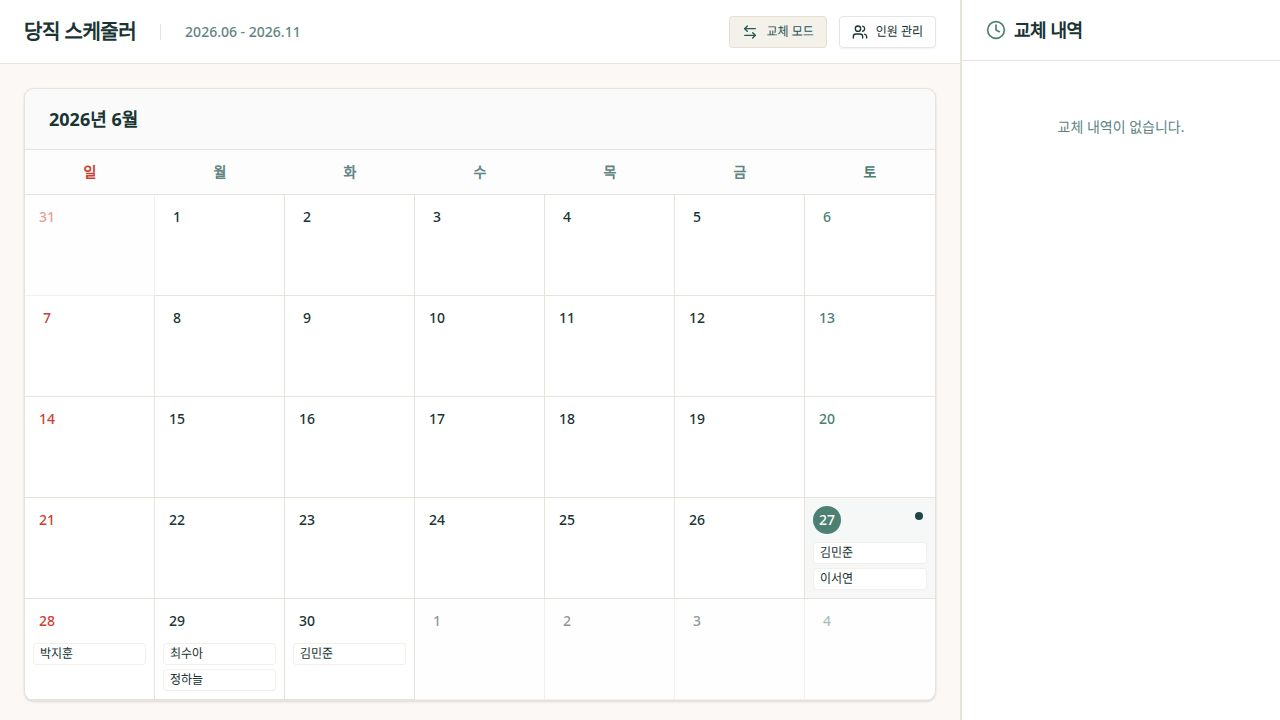
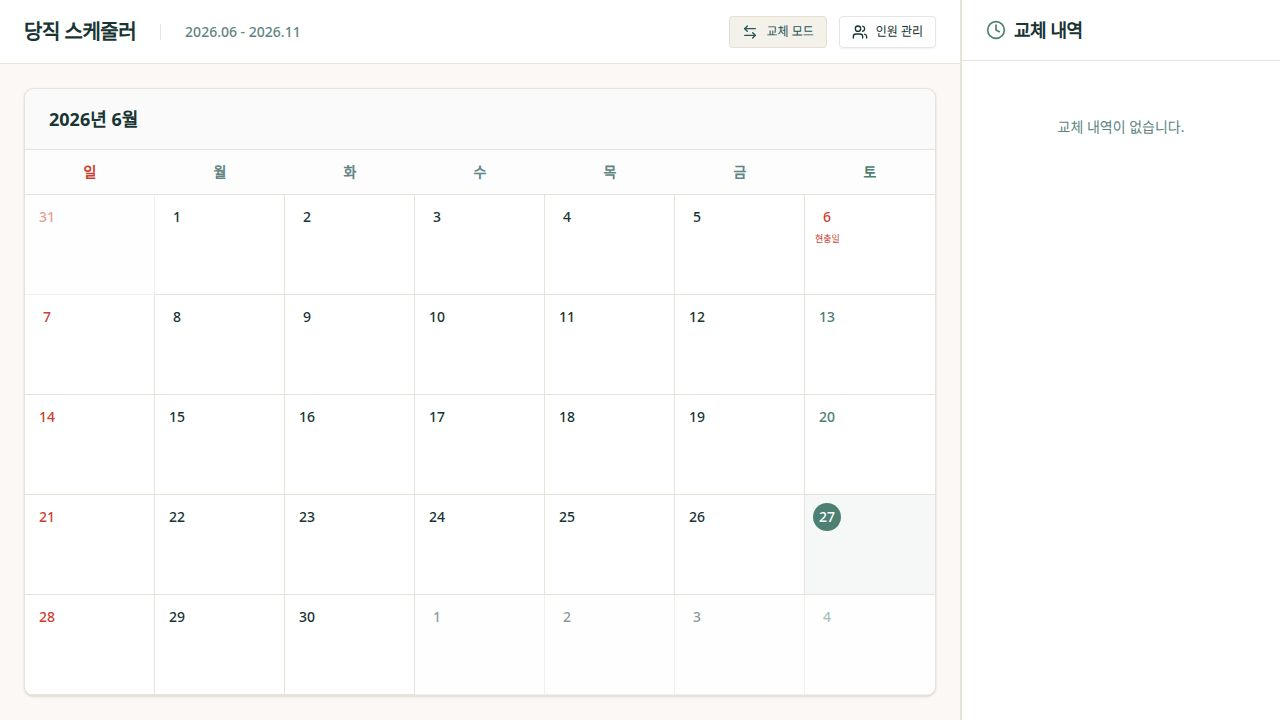
Add Korean public holiday highlighting to the calendar view
Implement a new utility for Korean holidays and integrate it into the calendar component to visually distinguish public holidays.

Replit-Commit-Author: Agent
Replit-Commit-Session-Id: 0424fa4a-f6b5-4077-a06b-6a16d13544e7
Replit-Commit-Checkpoint-Type: full_checkpoint
Replit-Commit-Event-Id: 74a1367c-1a98-4e17-9df1-6d5520efb0f4
Replit-Commit-Screenshot-Url: https://storage.googleapis.com/screenshot-production-us-central1/cf87bd14-f0a1-48b1-907c-88d88dbf4785/0424fa4a-f6b5-4077-a06b-6a16d13544e7/M0kC9wW
Replit-Helium-Checkpoint-Created: true

diff --git a/artifacts/duty-scheduler/src/lib/korean-holidays.ts b/artifacts/duty-scheduler/src/lib/korean-holidays.ts
@@ -1,0 +1,87 @@
+// 대한민국 법정 공휴일 (2025-2028)
+// Lunar-based holidays are pre-calculated per year
+
+const HOLIDAYS: Record<string, string> = {
+  // 2025
+  "2025-01-01": "신정",
+  "2025-01-28": "설날 연휴",
+  "2025-01-29": "설날",
+  "2025-01-30": "설날 연휴",
+  "2025-03-01": "삼일절",
+  "2025-05-05": "어린이날",
+  "2025-05-06": "대체공휴일(어린이날)",
+  "2025-05-05": "부처님오신날",  // Lunar Apr 8 - Buddha's Birthday
+  "2025-06-06": "현충일",
+  "2025-08-15": "광복절",
+  "2025-10-05": "추석 연휴",
+  "2025-10-06": "추석",
+  "2025-10-07": "추석 연휴",
+  "2025-10-03": "개천절",
+  "2025-10-09": "한글날",
+  "2025-12-25": "성탄절",
+
+  // 2026
+  "2026-01-01": "신정",
+  "2026-02-16": "설날 연휴",
+  "2026-02-17": "설날",
+  "2026-02-18": "설날 연휴",
+  "2026-03-01": "삼일절",
+  "2026-03-02": "대체공휴일(삼일절)",
+  "2026-05-05": "어린이날",
+  "2026-05-24": "부처님오신날",
+  "2026-05-25": "대체공휴일(부처님오신날)",
+  "2026-06-06": "현충일",
+  "2026-08-15": "광복절",
+  "2026-08-17": "대체공휴일(광복절)",
+  "2026-09-24": "추석 연휴",
+  "2026-09-25": "추석",
+  "2026-09-26": "추석 연휴",
+  "2026-10-03": "개천절",
+  "2026-10-09": "한글날",
+  "2026-12-25": "성탄절",
+
+  // 2027
+  "2027-01-01": "신정",
+  "2027-02-05": "설날 연휴",
+  "2027-02-06": "설날",
+  "2027-02-07": "설날 연휴",
+  "2027-02-08": "대체공휴일(설날)",
+  "2027-03-01": "삼일절",
+  "2027-05-05": "어린이날",
+  "2027-05-13": "부처님오신날",
+  "2027-06-06": "현충일",
+  "2027-06-07": "대체공휴일(현충일)",
+  "2027-08-15": "광복절",
+  "2027-09-14": "추석 연휴",
+  "2027-09-15": "추석",
+  "2027-09-16": "추석 연휴",
+  "2027-10-03": "개천절",
+  "2027-10-04": "대체공휴일(개천절)",
+  "2027-10-09": "한글날",
+  "2027-10-11": "대체공휴일(한글날)",
+  "2027-12-25": "성탄절",
+
+  // 2028
+  "2028-01-01": "신정",
+  "2028-01-25": "설날 연휴",
+  "2028-01-26": "설날",
+  "2028-01-27": "설날 연휴",
+  "2028-03-01": "삼일절",
+  "2028-05-02": "부처님오신날",
+  "2028-05-05": "어린이날",
+  "2028-06-06": "현충일",
+  "2028-08-15": "광복절",
+  "2028-10-02": "추석 연휴",
+  "2028-10-03": "추석/개천절",
+  "2028-10-04": "추석 연휴",
+  "2028-10-09": "한글날",
+  "2028-12-25": "성탄절",
+};
+
+export function isKoreanHoliday(dateStr: string): boolean {
+  return dateStr in HOLIDAYS;
+}
+
+export function getHolidayName(dateStr: string): string | null {
+  return HOLIDAYS[dateStr] ?? null;
+}

diff --git a/artifacts/duty-scheduler/src/components/calendar/MonthGrid.tsx b/artifacts/duty-scheduler/src/components/calendar/MonthGrid.tsx
@@ -1,7 +1,8 @@
 import React from "react";
-import { format, isSameMonth, isToday, parseISO } from "date-fns";
+import { format, isSameMonth, isToday } from "date-fns";
 import { cn } from "@/lib/utils";
 import { getMonthGrid } from "@/lib/date-utils";
+import { isKoreanHoliday, getHolidayName } from "@/lib/korean-holidays";
 import type { Duty, Memo } from "@workspace/api-client-react";
 
 interface MonthGridProps {
@@ -56,6 +57,9 @@ export function MonthGrid({
           const hasMemo = memos.some((m) => m.date === dateStr);
           const isCurrentMonth = isSameMonth(day, monthStart);
           const today = isToday(day);
+          const holiday = isKoreanHoliday(dateStr);
+          const holidayName = getHolidayName(dateStr);
+          const isRedDay = day.getDay() === 0 || holiday;
           
           const isSelectedForSwap = swapSelection.includes(dateStr);
 
@@ -80,16 +84,23 @@ export function MonthGrid({
               )}
             >
               <div className="flex justify-between items-start">
-                <span
-                  className={cn(
-                    "text-sm font-medium w-7 h-7 flex items-center justify-center rounded-full",
-                    today && "bg-primary text-primary-foreground",
-                    !today && day.getDay() === 0 && "text-destructive",
-                    !today && day.getDay() === 6 && "text-primary"
+                <div className="flex flex-col items-start gap-0.5">
+                  <span
+                    className={cn(
+                      "text-sm font-medium w-7 h-7 flex items-center justify-center rounded-full",
+                      today && "bg-primary text-primary-foreground",
+                      !today && isRedDay && "text-destructive",
+                      !today && !isRedDay && day.getDay() === 6 && "text-primary"
+                    )}
+                  >
+                    {format(day, "d")}
+                  </span>
+                  {isCurrentMonth && holidayName && (
+                    <span className="text-[9px] leading-tight text-destructive font-medium pl-0.5 max-w-[60px] truncate">
+                      {holidayName}
+                    </span>
                   )}
-                >
-                  {format(day, "d")}
-                </span>
+                </div>
                 {hasMemo && (
                   <div className="w-2 h-2 rounded-full bg-accent-foreground mt-1.5 mr-1" />
                 )}
